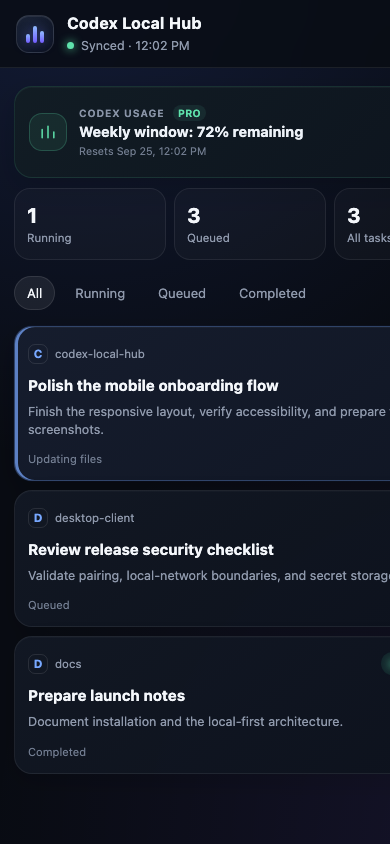
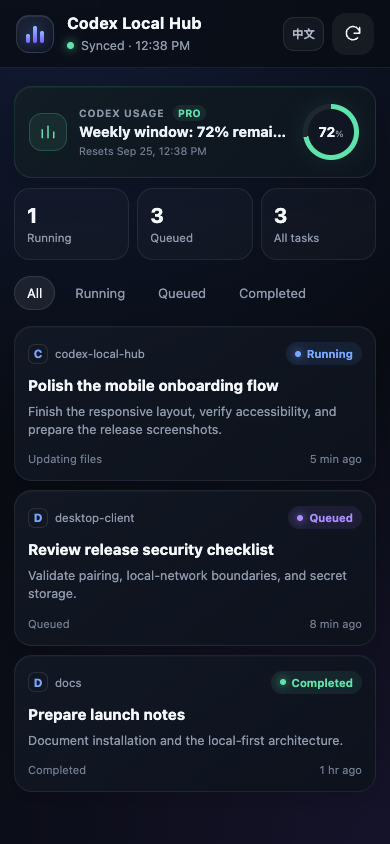
docs: show complete workspace flow

diff --git a/README.md b/README.md
@@ -16,19 +16,37 @@ Codex Local Hub is an open-source **Codex mobile dashboard, task monitor, and ph
 
 ## See it in action
 
+### 1. Start the host on your Mac
+
 <p align="center">
   <img src="docs/assets/screenshots/mac-host.en.png" width="720" alt="Codex Local Hub macOS host app showing service status, safe pairing placeholder, LAN address, and launch controls">
 </p>
 <p align="center"><strong>Mac host app</strong> — start the local service, pair the phone, and open the dashboard</p>
 
+### 2. See every task at a glance
+
+<p align="center">
+  <img src="docs/assets/screenshots/desktop-home.en.png" width="920" alt="Codex Local Hub home screen showing usage, task counts, filters, task status, and an empty conversation panel before a task is selected">
+</p>
+<p align="center"><strong>Workspace home</strong> — usage, running work, queued tasks, and completed work stay visible together</p>
+
+### 3. Open a task and continue the conversation
+
+<p align="center">
+  <img src="docs/assets/screenshots/desktop-dashboard.en.png" width="920" alt="Codex Local Hub task view showing a selected task, recent conversation, goal status, queue count, last prompt, and message composer">
+</p>
+<p align="center"><strong>Task conversation</strong> — review the latest visible messages, inspect the goal and queue, then send the next prompt</p>
+
+### 4. Use the same flow on your phone
+
 <table>
   <tr>
-    <td width="78%"><img src="docs/assets/screenshots/desktop-dashboard.en.png" width="100%" alt="Codex Local Hub desktop dashboard showing tasks, progress, usage, recent messages, goal status, and the prompt composer"></td>
-    <td width="22%"><img src="docs/assets/screenshots/mobile-dashboard.en.png" width="100%" alt="Codex Local Hub phone dashboard showing current usage and task states"></td>
+    <td width="50%"><img src="docs/assets/screenshots/mobile-dashboard.en.png" width="100%" alt="Codex Local Hub phone home screen showing current usage and task states"></td>
+    <td width="50%"><img src="docs/assets/screenshots/mobile-conversation.en.png" width="100%" alt="Codex Local Hub phone task view showing recent messages, goal status, queue count, last prompt, and message composer"></td>
   </tr>
   <tr>
-    <td align="center"><strong>Desktop workspace</strong> — task list and conversation stay visible together</td>
-    <td align="center"><strong>Phone dashboard</strong> — a compact view built for one-handed use</td>
+    <td align="center"><strong>Phone home</strong> — choose a task from the compact dashboard</td>
+    <td align="center"><strong>Phone conversation</strong> — monitor progress and send the next prompt with one hand</td>
   </tr>
 </table>
 

diff --git a/README.zh-CN.md b/README.zh-CN.md
@@ -16,19 +16,37 @@ Codex Local Hub 是一个开源的 **Codex 手机控制台、任务监控器和 
 
 ## 运行效果
 
+### 1. 在 Mac 上启动服务
+
 <p align="center">
   <img src="docs/assets/screenshots/mac-host.zh-CN.png" width="720" alt="Codex 随身工作台 Mac 宿主程序，展示服务状态、安全配对占位图、局域网地址和启动控制">
 </p>
 <p align="center"><strong>Mac 宿主程序</strong>：启动本地服务、配对手机并打开工作台</p>
 
+### 2. 在主页总览全部任务
+
+<p align="center">
+  <img src="docs/assets/screenshots/desktop-home.zh-CN.png" width="920" alt="Codex 随身工作台主页，展示用量、任务数量、筛选项、任务状态，以及尚未选择任务时的对话区域">
+</p>
+<p align="center"><strong>工作台主页</strong>：用量、正在进行、等待处理和已完成任务一目了然</p>
+
+### 3. 进入具体任务并继续对话
+
+<p align="center">
+  <img src="docs/assets/screenshots/desktop-dashboard.zh-CN.png" width="920" alt="Codex 随身工作台任务页面，展示选中的任务、最近对话、目标状态、队列数量、最后问题和消息输入框">
+</p>
+<p align="center"><strong>任务对话</strong>：查看最近可见消息、目标和队列，再发送下一条提示词</p>
+
+### 4. 在手机上完成同样的操作
+
 <table>
   <tr>
-    <td width="78%"><img src="docs/assets/screenshots/desktop-dashboard.zh-CN.png" width="100%" alt="Codex 随身工作台电脑端界面，展示任务列表、进度、用量、最近消息、目标状态和输入框"></td>
-    <td width="22%"><img src="docs/assets/screenshots/mobile-dashboard.zh-CN.png" width="100%" alt="Codex 随身工作台手机界面，展示当前用量和任务状态"></td>
+    <td width="50%"><img src="docs/assets/screenshots/mobile-dashboard.zh-CN.png" width="100%" alt="Codex 随身工作台手机主页，展示当前用量和任务状态"></td>
+    <td width="50%"><img src="docs/assets/screenshots/mobile-conversation.zh-CN.png" width="100%" alt="Codex 随身工作台手机任务页面，展示最近消息、目标状态、队列数量、最后问题和消息输入框"></td>
   </tr>
   <tr>
-    <td align="center"><strong>电脑端工作区</strong>：任务列表与对话进度同时可见</td>
-    <td align="center"><strong>手机端工作台</strong>：适合单手操作的紧凑布局</td>
+    <td align="center"><strong>手机主页</strong>：从紧凑的任务面板中选择任务</td>
+    <td align="center"><strong>手机对话</strong>：单手查看进度并发送下一条提示词</td>
   </tr>
 </table>
 
